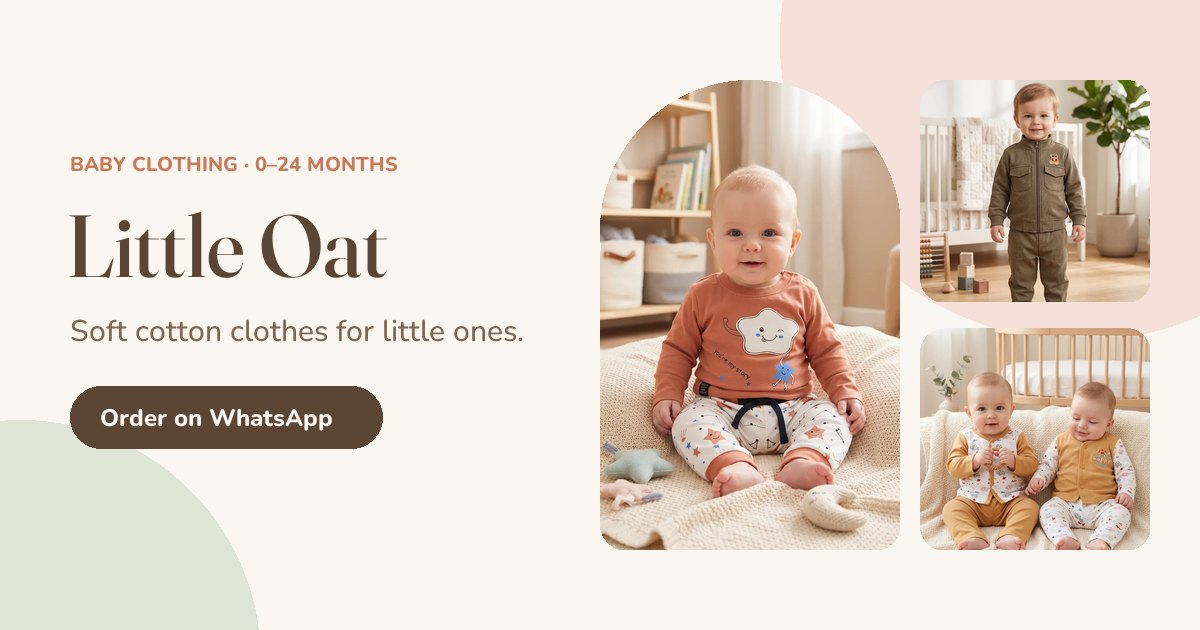
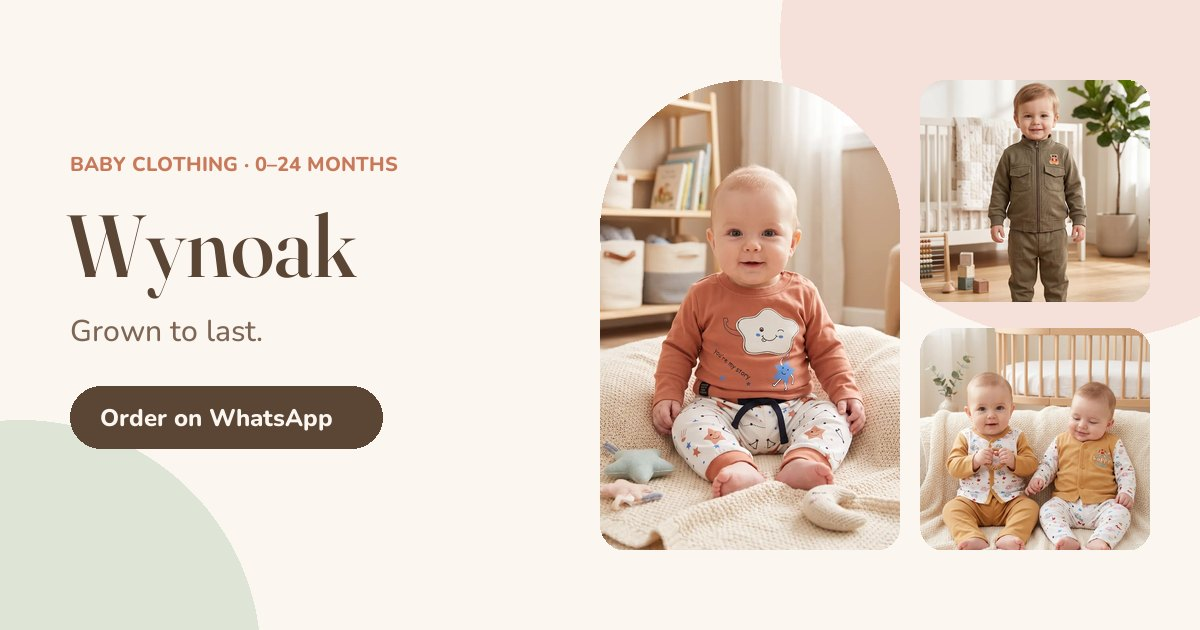
Rebrand to Wynoak and remove the Zebra hooded suit
- Brand name Wynoak, tagline "Grown to last." across titles, share tags,
  footer and home story; regenerated link-preview image.
- Acorn mark replaces the placeholder moon (header, favicon, home-screen
  icon). Order IDs now start with WYN-.
- Remove the Zebra Stripe Hooded Suit (Ralph Lauren "Polo Bear" patch)
  and its images; Winter Wear tile uses the Hooded Teddy Suit.
- Launch checklist: prices and business details moved to the
  remind-until-done list.

Changed region(s): [[0.0617, 0.3317, 0.3392, 0.4825], [0.0617, 0.5127, 0.4317, 0.5429]]

diff --git a/js/app.js b/js/app.js
@@ -25,7 +25,7 @@
     left: '<svg viewBox="0 0 24 24" fill="none" stroke="currentColor" stroke-width="2" stroke-linecap="round"><path d="M15 5l-7 7 7 7"/></svg>',
     right: '<svg viewBox="0 0 24 24" fill="none" stroke="currentColor" stroke-width="2" stroke-linecap="round"><path d="M9 5l7 7-7 7"/></svg>',
     wa: '<svg viewBox="0 0 24 24" fill="currentColor"><path d="M12 2a10 10 0 0 0-8.6 15.1L2 22l5-1.3A10 10 0 1 0 12 2zm0 18.2a8.2 8.2 0 0 1-4.2-1.2l-.3-.2-3 .8.8-2.9-.2-.3A8.2 8.2 0 1 1 12 20.2zm4.5-6.1c-.2-.1-1.5-.7-1.7-.8-.2-.1-.4-.1-.6.1l-.8 1c-.1.2-.3.2-.5.1a6.7 6.7 0 0 1-3.3-2.9c-.3-.4.3-.4.7-1.3.1-.2 0-.3 0-.4l-.8-1.8c-.2-.5-.4-.4-.6-.4h-.5a1 1 0 0 0-.7.3 3 3 0 0 0-.9 2.2 5.2 5.2 0 0 0 1.1 2.7 11.8 11.8 0 0 0 4.5 4c1.7.7 2.3.8 3.2.6.5-.1 1.5-.6 1.7-1.2.2-.6.2-1.1.2-1.2-.1-.1-.3-.2-.5-.3z"/></svg>',
-    logo: '<svg viewBox="0 0 40 40" fill="none"><circle cx="20" cy="20" r="19" fill="#EFE4D6"/><path d="M25.5 11.5a9 9 0 1 0 3.2 12.2 7 7 0 1 1-3.2-12.2z" fill="#C8795A"/><circle cx="27.5" cy="13" r="1.4" fill="#D9A84E"/><circle cx="30.5" cy="18" r="0.9" fill="#D9A84E"/></svg>',
+    logo: '<svg viewBox="0 0 40 40" fill="none"><circle cx="20" cy="20" r="19" fill="#EFE4D6"/><path d="M12.8 19h14.4v2.2c0 5.3-3.3 9.4-7.2 10.9-3.9-1.5-7.2-5.6-7.2-10.9z" fill="#C8795A"/><path d="M11.2 19.4c0-4.1 3.9-7 8.8-7s8.8 2.9 8.8 7z" fill="#5B4636"/><path d="M20 12.6c0-2.1.9-3.6 2.5-4.4" stroke="#5B4636" stroke-width="1.6" stroke-linecap="round"/><path d="M22.4 8.6c2.4-1.7 5.3-1.4 6.6 0-1.7 1.7-4.6 1.9-6.6 0z" fill="#8A9A7B"/></svg>',
   };
 
   // ---------- bag state (persisted in localStorage) ----------
@@ -49,7 +49,7 @@
   // ---------- shared chrome ----------
   function chrome() {
     const page = document.body.dataset.page;
-    document.title = document.title.replace("Little Oat", S.name);
+    document.title = document.title.replace("Wynoak", S.name);
     const navLinks = [
       ["shop.html", "Shop all", "shop"],
       ["shop.html?cat=newborn", "Newborn"],
@@ -77,7 +77,7 @@
       <footer class="footer">
         <div class="wrap">
           <div class="footer-grid">
-            <div>${logo}<p class="muted" style="max-width:320px">${esc(S.tagline)}. Thoughtfully picked for comfort, play and cuddles.</p></div>
+            <div>${logo}<p class="muted" style="max-width:320px">${esc(S.tagline)} Soft, sturdy clothes for comfort, play and cuddles.</p></div>
             <div><h5>Shop</h5><ul>${CATS.map((c) => `<li><a href="shop.html?cat=${c.id}">${c.label}</a></li>`).join("")}</ul></div>
             <div><h5>Help</h5><ul>
               <li><a href="contact.html">Contact us</a></li>
@@ -194,7 +194,8 @@
 
   // Short, readable order reference, e.g. LO-250924-7K3F
   function orderId() {
-    const prefix = S.name.split(/\s+/).map((w) => w[0]).join("").toUpperCase();
+    const words = S.name.trim().split(/\s+/);
+    const prefix = (words.length > 1 ? words.map((w) => w[0]).join("") : words[0].slice(0, 3)).toUpperCase();
     const d = new Date();
     const date = [d.getFullYear() % 100, d.getMonth() + 1, d.getDate()].map((n) => String(n).padStart(2, "0")).join("");
     return `${prefix}-${date}-${Math.random().toString(36).slice(2, 6).toUpperCase()}`;
@@ -296,7 +297,7 @@
   // ---------- pages ----------
   function home() {
     $("[data-brand]") && $$("[data-brand]").forEach((el) => (el.textContent = S.name));
-    const catImg = { newborn: ["newborn-cap-bib-set", "cream"], rompers: ["sleeveless-button-romper", "green"], sets: ["star-cloud-jogger-set", "rust"], dungarees: ["striped-dungaree-set", "default"], winter: ["zebra-hooded-suit", "green"], night: ["printed-night-suit", "peach"] };
+    const catImg = { newborn: ["newborn-cap-bib-set", "cream"], rompers: ["sleeveless-button-romper", "green"], sets: ["star-cloud-jogger-set", "rust"], dungarees: ["striped-dungaree-set", "default"], winter: ["hooded-teddy-suit", "cream"], night: ["printed-night-suit", "peach"] };
     $("#cats").innerHTML = CATS.map((c) => {
       const [pid, col] = catImg[c.id];
       return `<a class="cat reveal" href="shop.html?cat=${c.id}"><div class="arch-img"><img src="${img(IMAGES[pid][col][0], true)}" alt="${c.label}" loading="lazy"></div><h3>${c.label}</h3><p>${c.blurb}</p></a>`;

diff --git a/index.html b/index.html
@@ -9,12 +9,12 @@
   <link rel="preconnect" href="https://fonts.gstatic.com" crossorigin>
   <link href="https://fonts.googleapis.com/css2?family=Fraunces:ital,opsz,wght@0,9..144,400;0,9..144,500;1,9..144,400;1,9..144,500&family=Nunito:wght@400;500;600;700;800&display=swap" rel="stylesheet">
   <link rel="stylesheet" href="css/styles.css">
-  <title>Little Oat · Soft baby clothes</title>
+  <title>Wynoak · Baby clothes, grown to last</title>
   <meta name="description" content="Soft cotton rompers, sets, dungarees and cosy winter suits for babies 0–24 months. Order easily on WhatsApp.">
   <link rel="canonical" href="https://order-priority.vercel.app/">
   <meta property="og:type" content="website">
-  <meta property="og:site_name" content="Little Oat">
-  <meta property="og:title" content="Little Oat · Soft baby clothes">
+  <meta property="og:site_name" content="Wynoak">
+  <meta property="og:title" content="Wynoak · Baby clothes, grown to last">
   <meta property="og:description" content="Soft cotton rompers, sets, dungarees and cosy winter suits for babies 0–24 months. Order easily on WhatsApp.">
   <meta property="og:url" content="https://order-priority.vercel.app/">
   <meta property="og:image" content="https://order-priority.vercel.app/assets/brand/og.jpg">
@@ -37,8 +37,8 @@
             <a class="btn btn-ghost" href="shop.html?cat=newborn">Newborn essentials</a>
           </div>
           <div class="hero-meta">
-            <div><strong id="stat-styles">16</strong>cosy styles</div>
-            <div><strong id="stat-colours">41</strong>colourways</div>
+            <div><strong id="stat-styles">15</strong>cosy styles</div>
+            <div><strong id="stat-colours">38</strong>colourways</div>
             <div><strong>0–24M</strong>sizes</div>
           </div>
         </div>
@@ -76,8 +76,8 @@
         <div class="story-img"><img src="assets/products/collar-sleepsuit/ivory-1.webp" alt="Baby in a soft ivory sleepsuit" loading="lazy"></div>
         <div class="story-text">
           <span class="eyebrow">Our story</span>
-          <h2>Made for tiny skin and big cuddles</h2>
-          <p><span data-brand>Little Oat</span> started with a simple wish: baby clothes that feel as gentle as a hug and look as sweet as the little ones wearing them.</p>
+          <h2>Soft for tiny skin, grown to last</h2>
+          <p><span data-brand>Wynoak</span> started with a simple wish: baby clothes that feel as gentle as a hug, and are made well enough to be handed down. Like an oak, grown to last.</p>
           <p>Every piece is chosen for soft fabrics, easy snaps and zips for quick changes, and happy prints that wash after wash still look new.</p>
           <div class="story-points">
             <div><span>🌿</span>Breathable cotton</div>

diff --git a/shop.html b/shop.html
@@ -9,12 +9,12 @@
   <link rel="preconnect" href="https://fonts.gstatic.com" crossorigin>
   <link href="https://fonts.googleapis.com/css2?family=Fraunces:ital,opsz,wght@0,9..144,400;0,9..144,500;1,9..144,400;1,9..144,500&family=Nunito:wght@400;500;600;700;800&display=swap" rel="stylesheet">
   <link rel="stylesheet" href="css/styles.css">
-  <title>Shop · Little Oat</title>
+  <title>Shop · Wynoak</title>
   <meta name="description" content="Shop soft baby rompers, sets, dungarees, winter suits and nightwear.">
   <link rel="canonical" href="https://order-priority.vercel.app/shop.html">
   <meta property="og:type" content="website">
-  <meta property="og:site_name" content="Little Oat">
-  <meta property="og:title" content="Shop · Little Oat">
+  <meta property="og:site_name" content="Wynoak">
+  <meta property="og:title" content="Shop · Wynoak">
   <meta property="og:description" content="Shop soft baby rompers, sets, dungarees, winter suits and nightwear.">
   <meta property="og:url" content="https://order-priority.vercel.app/shop.html">
   <meta property="og:image" content="https://order-priority.vercel.app/assets/brand/og.jpg">

diff --git a/product.html b/product.html
@@ -9,12 +9,12 @@
   <link rel="preconnect" href="https://fonts.gstatic.com" crossorigin>
   <link href="https://fonts.googleapis.com/css2?family=Fraunces:ital,opsz,wght@0,9..144,400;0,9..144,500;1,9..144,400;1,9..144,500&family=Nunito:wght@400;500;600;700;800&display=swap" rel="stylesheet">
   <link rel="stylesheet" href="css/styles.css">
-  <title>Little Oat</title>
+  <title>Wynoak</title>
   <meta name="description" content="Soft baby clothes, order easily on WhatsApp.">
   <link rel="canonical" href="https://order-priority.vercel.app/product.html">
   <meta property="og:type" content="website">
-  <meta property="og:site_name" content="Little Oat">
-  <meta property="og:title" content="Little Oat · Soft baby clothes">
+  <meta property="og:site_name" content="Wynoak">
+  <meta property="og:title" content="Wynoak · Baby clothes, grown to last">
   <meta property="og:description" content="Soft baby clothes, order easily on WhatsApp.">
   <meta property="og:url" content="https://order-priority.vercel.app/product.html">
   <meta property="og:image" content="https://order-priority.vercel.app/assets/brand/og.jpg">

diff --git a/returns.html b/returns.html
@@ -4,12 +4,12 @@
   <meta charset="utf-8">
   <meta name="viewport" content="width=device-width, initial-scale=1">
   <meta name="theme-color" content="#fbf6ef">
-  <title>Returns, exchange & refund policy · Little Oat</title>
+  <title>Returns, exchange & refund policy · Wynoak</title>
   <meta name="description" content="Size exchanges, damaged items, cancellations and refund timelines.">
   <link rel="canonical" href="https://order-priority.vercel.app/returns.html">
   <meta property="og:type" content="website">
-  <meta property="og:site_name" content="Little Oat">
-  <meta property="og:title" content="Returns, exchange & refund policy · Little Oat">
+  <meta property="og:site_name" content="Wynoak">
+  <meta property="og:title" content="Returns, exchange & refund policy · Wynoak">
   <meta property="og:description" content="Size exchanges, damaged items, cancellations and refund timelines.">
   <meta property="og:url" content="https://order-priority.vercel.app/returns.html">
   <meta property="og:image" content="https://order-priority.vercel.app/assets/brand/og.jpg">

diff --git a/data/images.js b/data/images.js
@@ -141,29 +141,6 @@ window.PRODUCT_IMAGES = {
       "assets/products/zip-fleece-suit/default-5"
     ]
   },
-  "zebra-hooded-suit": {
-    "green": [
-      "assets/products/zebra-hooded-suit/green-1",
-      "assets/products/zebra-hooded-suit/green-2",
-      "assets/products/zebra-hooded-suit/green-3",
-      "assets/products/zebra-hooded-suit/green-4",
-      "assets/products/zebra-hooded-suit/green-5"
-    ],
-    "mustard": [
-      "assets/products/zebra-hooded-suit/mustard-1",
-      "assets/products/zebra-hooded-suit/mustard-2",
-      "assets/products/zebra-hooded-suit/mustard-3",
-      "assets/products/zebra-hooded-suit/mustard-4",
-      "assets/products/zebra-hooded-suit/mustard-5"
-    ],
-    "red": [
-      "assets/products/zebra-hooded-suit/red-1",
-      "assets/products/zebra-hooded-suit/red-2",
-      "assets/products/zebra-hooded-suit/red-3",
-      "assets/products/zebra-hooded-suit/red-4",
-      "assets/products/zebra-hooded-suit/red-5"
-    ]
-  },
   "tiger-stripe-suit": {
     "black": [
       "assets/products/tiger-stripe-suit/black-1",

diff --git a/shipping.html b/shipping.html
@@ -4,12 +4,12 @@
   <meta charset="utf-8">
   <meta name="viewport" content="width=device-width, initial-scale=1">
   <meta name="theme-color" content="#fbf6ef">
-  <title>Shipping policy · Little Oat</title>
+  <title>Shipping policy · Wynoak</title>
   <meta name="description" content="Dispatch times, delivery charges, cash on delivery and tracking.">
   <link rel="canonical" href="https://order-priority.vercel.app/shipping.html">
   <meta property="og:type" content="website">
-  <meta property="og:site_name" content="Little Oat">
-  <meta property="og:title" content="Shipping policy · Little Oat">
+  <meta property="og:site_name" content="Wynoak">
+  <meta property="og:title" content="Shipping policy · Wynoak">
   <meta property="og:description" content="Dispatch times, delivery charges, cash on delivery and tracking.">
   <meta property="og:url" content="https://order-priority.vercel.app/shipping.html">
   <meta property="og:image" content="https://order-priority.vercel.app/assets/brand/og.jpg">

diff --git a/privacy.html b/privacy.html
@@ -4,12 +4,12 @@
   <meta charset="utf-8">
   <meta name="viewport" content="width=device-width, initial-scale=1">
   <meta name="theme-color" content="#fbf6ef">
-  <title>Privacy policy · Little Oat</title>
+  <title>Privacy policy · Wynoak</title>
   <meta name="description" content="What personal information we collect, why, and your rights.">
   <link rel="canonical" href="https://order-priority.vercel.app/privacy.html">
   <meta property="og:type" content="website">
-  <meta property="og:site_name" content="Little Oat">
-  <meta property="og:title" content="Privacy policy · Little Oat">
+  <meta property="og:site_name" content="Wynoak">
+  <meta property="og:title" content="Privacy policy · Wynoak">
   <meta property="og:description" content="What personal information we collect, why, and your rights.">
   <meta property="og:url" content="https://order-priority.vercel.app/privacy.html">
   <meta property="og:image" content="https://order-priority.vercel.app/assets/brand/og.jpg">

diff --git a/terms.html b/terms.html
@@ -4,12 +4,12 @@
   <meta charset="utf-8">
   <meta name="viewport" content="width=device-width, initial-scale=1">
   <meta name="theme-color" content="#fbf6ef">
-  <title>Terms & conditions · Little Oat</title>
+  <title>Terms & conditions · Wynoak</title>
   <meta name="description" content="Terms for using this website and placing orders.">
   <link rel="canonical" href="https://order-priority.vercel.app/terms.html">
   <meta property="og:type" content="website">
-  <meta property="og:site_name" content="Little Oat">
-  <meta property="og:title" content="Terms & conditions · Little Oat">
+  <meta property="og:site_name" content="Wynoak">
+  <meta property="og:title" content="Terms & conditions · Wynoak">
   <meta property="og:description" content="Terms for using this website and placing orders.">
   <meta property="og:url" content="https://order-priority.vercel.app/terms.html">
   <meta property="og:image" content="https://order-priority.vercel.app/assets/brand/og.jpg">

diff --git a/contact.html b/contact.html
@@ -4,12 +4,12 @@
   <meta charset="utf-8">
   <meta name="viewport" content="width=device-width, initial-scale=1">
   <meta name="theme-color" content="#fbf6ef">
-  <title>Contact us · Little Oat</title>
+  <title>Contact us · Wynoak</title>
   <meta name="description" content="Get in touch about orders, sizes, exchanges or anything else.">
   <link rel="canonical" href="https://order-priority.vercel.app/contact.html">
   <meta property="og:type" content="website">
-  <meta property="og:site_name" content="Little Oat">
-  <meta property="og:title" content="Contact us · Little Oat">
+  <meta property="og:site_name" content="Wynoak">
+  <meta property="og:title" content="Contact us · Wynoak">
   <meta property="og:description" content="Get in touch about orders, sizes, exchanges or anything else.">
   <meta property="og:url" content="https://order-priority.vercel.app/contact.html">
   <meta property="og:image" content="https://order-priority.vercel.app/assets/brand/og.jpg">

diff --git a/size-guide.html b/size-guide.html
@@ -4,12 +4,12 @@
   <meta charset="utf-8">
   <meta name="viewport" content="width=device-width, initial-scale=1">
   <meta name="theme-color" content="#fbf6ef">
-  <title>Size guide · Little Oat</title>
+  <title>Size guide · Wynoak</title>
   <meta name="description" content="Baby clothing sizes by age, weight and height.">
   <link rel="canonical" href="https://order-priority.vercel.app/size-guide.html">
   <meta property="og:type" content="website">
-  <meta property="og:site_name" content="Little Oat">
-  <meta property="og:title" content="Size guide · Little Oat">
+  <meta property="og:site_name" content="Wynoak">
+  <meta property="og:title" content="Size guide · Wynoak">
   <meta property="og:description" content="Baby clothing sizes by age, weight and height.">
   <meta property="og:url" content="https://order-priority.vercel.app/size-guide.html">
   <meta property="og:image" content="https://order-priority.vercel.app/assets/brand/og.jpg">

diff --git a/data/products.js b/data/products.js
@@ -43,11 +43,6 @@ window.CATEGORIES = [
 
 window.PRODUCTS = [
   {
-    id: "zebra-hooded-suit", name: "Zebra Stripe Hooded Suit", category: "winter",
-    price: 1049, mrp: 1399, colours: ["green", "mustard", "red"], badge: "Bestseller",
-    description: "A plush, fleece-lined hooded suit with a playful zebra print, built-in feet and fold-over mittens. Front zip for quick changes.",
-  },
-  {
     id: "zip-bomber-jogger-set", name: "Zip Bomber & Jogger Set", category: "sets",
     price: 999, mrp: 1299, colours: ["olive", "sage", "slate", "brown", "plum", "beige"],
     description: "A utility-style zip jacket with chest pockets and a teddy patch, paired with ribbed-cuff joggers. Brushed cotton for warmth without bulk.",
